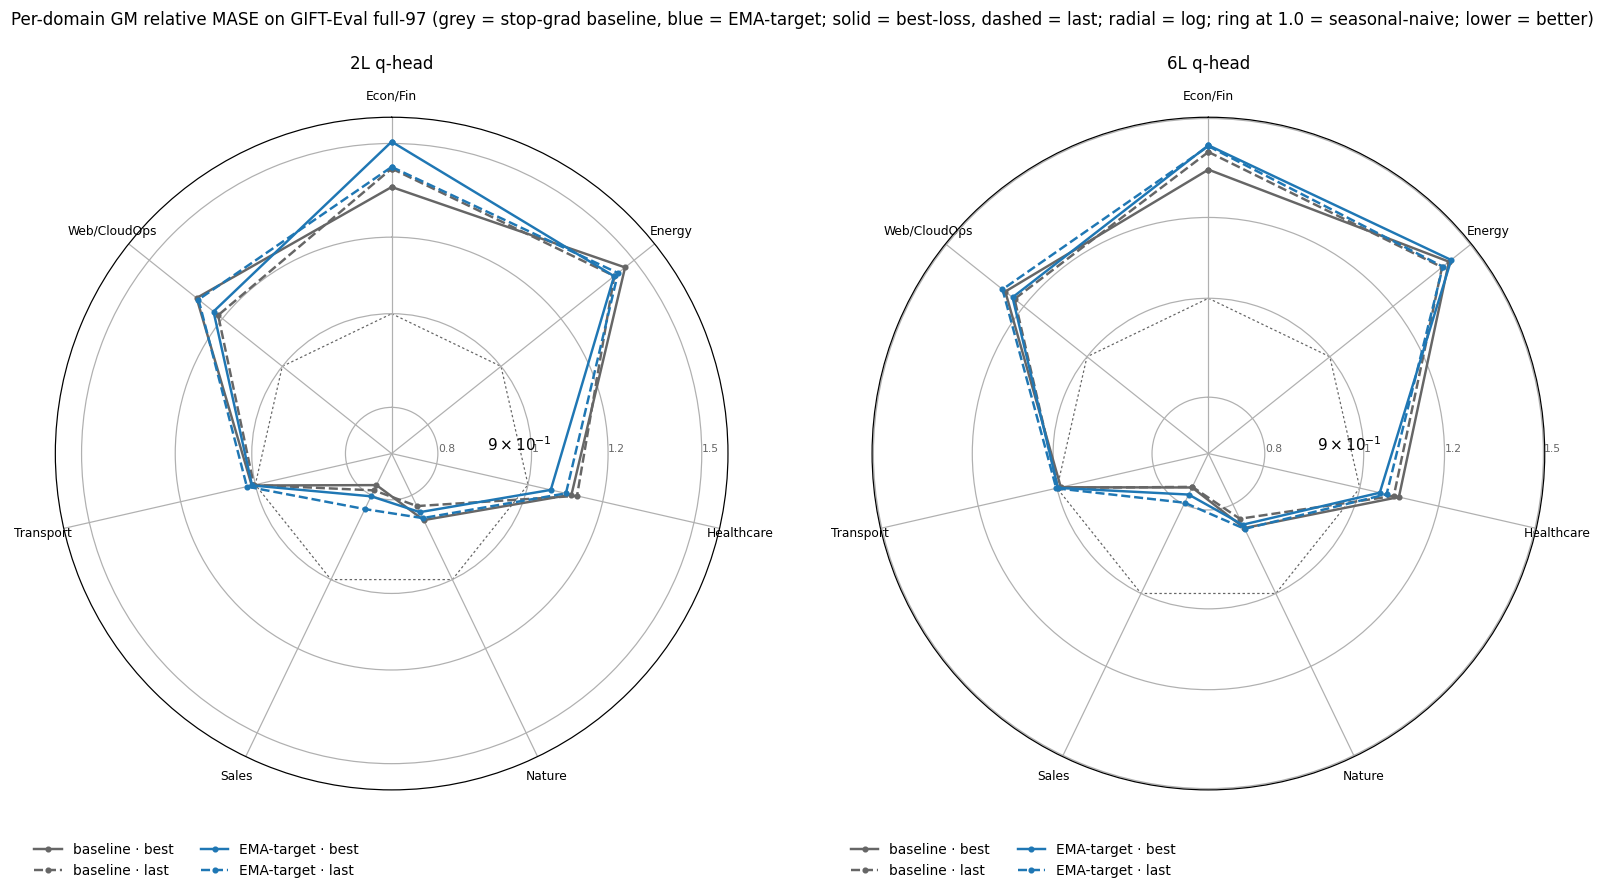
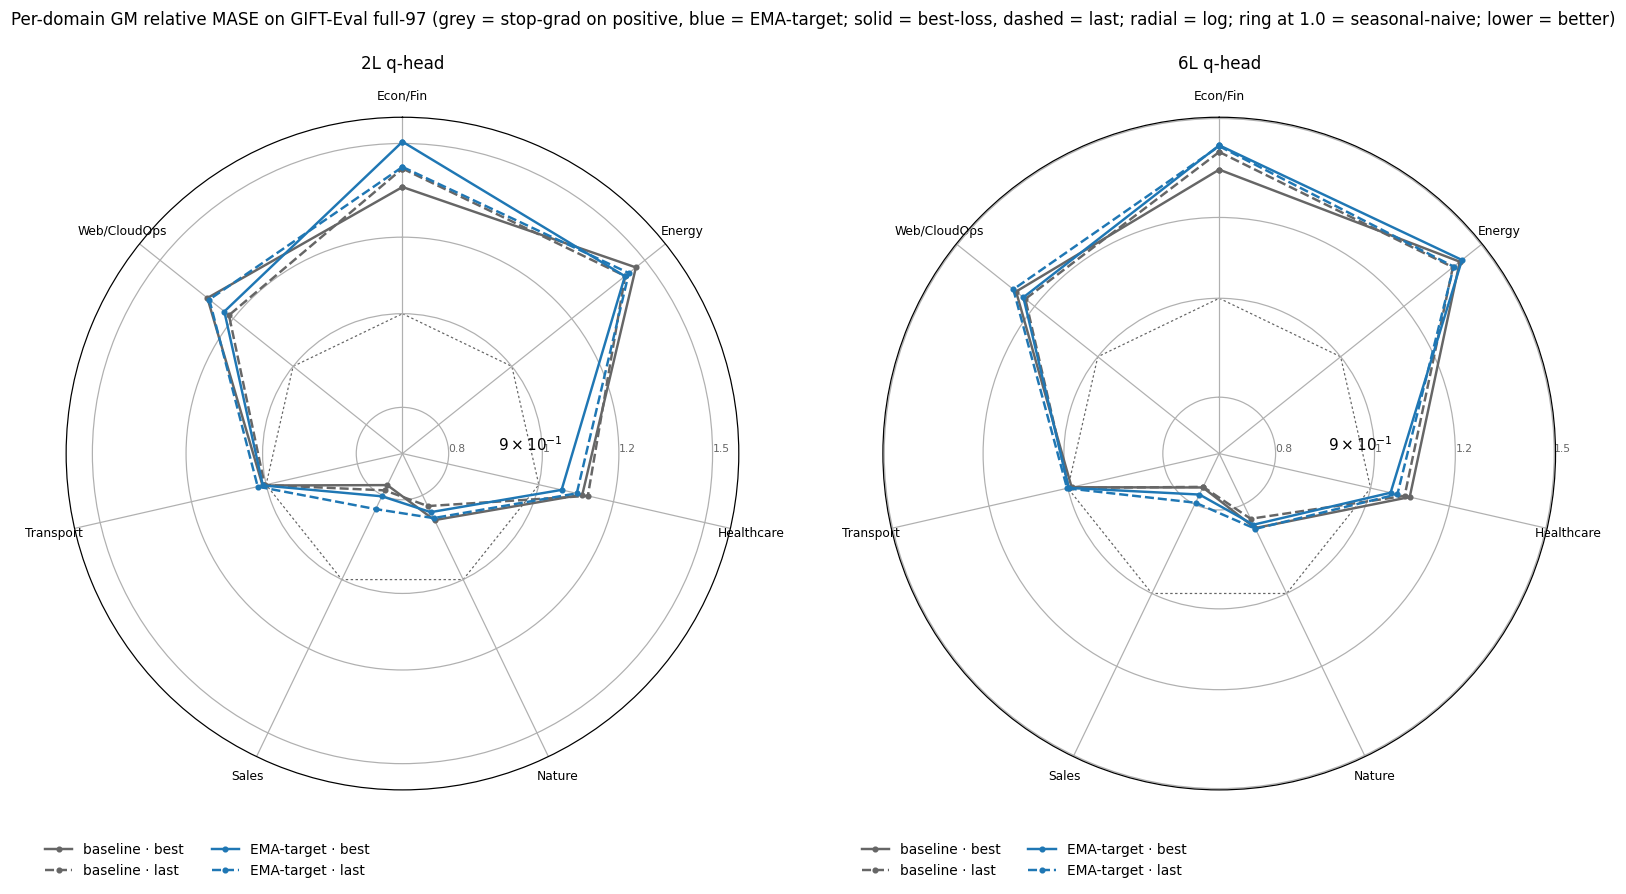
exp(#353): rewrite report — drop per-task hist + 'what we learned', merge method/protocol into one section, descriptive plot titles, tighten title, commit results/ CSVs
Addresses the reviewer agent's P0/P1/P2 findings and human feedback:
- Re-render plot titles/legends without PR numbers.
- Drop the per-task histogram + its section; the GM table + radar carry it.
- Drop 'what we learned' (the hypothesis was mechanism overreach, the rest
  duplicated the headline).
- Merge 'The change' + 'Protocol' into one 'Method and recipe' section,
  written as continuous prose.
- Tighten the title from 'helps early, hurts late' to 'helps the early 2L
  checkpoint, hurts both late checkpoints' — only the 2L best cell is
  reliably helped, 6L best is ns.
- Cite the baseline report explicitly.
- Drop the noisy radar interpretation sentence.
- Commit gm_table.csv + pairwise_table.csv into results/.

diff --git a/experiments/2026-06-19_ema_target_encoder/scripts/plot_perdomain_radar.py b/experiments/2026-06-19_ema_target_encoder/scripts/plot_perdomain_radar.py
@@ -1,13 +1,8 @@
 #!/usr/bin/env python3
-"""#353 — per-domain radar + per-task Δ histogram for the EMA-target arm
-vs the stop-grad-positive baseline.
-
-Two outputs in plots/:
-- perdomain_radar.png — per-domain geometric-mean relative MASE on
-  GIFT-Eval full-97, log-scale radial axis. One panel per (head ×
-  checkpoint) cell; baseline (grey) vs EMA-target (blue).
-- pertask_hist.png    — histograms of per-task Δ = rel(EMA) − rel(baseline)
-  over the 97 tasks, one panel per cell. Negative bins ⇒ EMA wins.
+"""Per-domain radar for the EMA-target arm vs the stop-grad-positive
+baseline. Output in plots/perdomain_radar.png — per-domain geometric-mean
+relative MASE on GIFT-Eval full-97, log-scale radial axis, one panel per
+q-head depth (2L | 6L), curves for each (arm × checkpoint).
 """
 import csv
 import math
@@ -116,7 +111,7 @@ for ax, head in zip(axes, HEAD_PANELS):
     ax.legend(loc="upper left", bbox_to_anchor=(-0.05, -0.06),
               fontsize=9, frameon=False, ncol=2)
 fig.suptitle("Per-domain GM relative MASE on GIFT-Eval full-97 "
-             "(grey = stop-grad baseline, blue = EMA-target; "
+             "(grey = stop-grad on positive, blue = EMA-target; "
              "solid = best-loss, dashed = last; radial = log; "
              "ring at 1.0 = seasonal-naive; lower = better)", fontsize=11)
 fig.tight_layout(rect=[0, 0.03, 1, 0.93])
@@ -124,26 +119,3 @@ fig.savefig(f"{PLOTS}/perdomain_radar.png", dpi=110, bbox_inches="tight")
 plt.close(fig)
 print(f"wrote {PLOTS}/perdomain_radar.png")
 
-# --- per-task delta histogram ---
-fig, axes = plt.subplots(1, 4, figsize=(20, 4.5), sharey=True)
-for ax, (label, head, suf) in zip(axes, CELLS):
-    base_rel, _ = load_cell(BASE_DIR, BASE_TAG, head, suf)
-    ema_rel, _ = load_cell(EMA_DIR, EMA_TAG, head, suf)
-    common = sorted(set(base_rel) & set(ema_rel))
-    if not common:
-        ax.text(0.5, 0.5, "no eval", transform=ax.transAxes); continue
-    deltas = [ema_rel[c] - base_rel[c] for c in common]
-    wins = sum(1 for d in deltas if d < 0)
-    losses = sum(1 for d in deltas if d > 0)
-    ax.hist(deltas, bins=30, color=BLUE, edgecolor="black", linewidth=0.4)
-    ax.axvline(0, color="k", lw=1.0, ls="--")
-    ax.set_title(f"{label}  (EMA wins {wins} / loses {losses} / 97)",
-                 fontsize=10)
-    ax.set_xlabel("Δ = rel(EMA) − rel(baseline)")
-axes[0].set_ylabel("tasks")
-fig.suptitle("Per-task Δ over GIFT-Eval's 97 configs "
-             "(negative bins ⇒ EMA-target beats baseline)", fontsize=12)
-fig.tight_layout(rect=[0, 0, 1, 0.93])
-fig.savefig(f"{PLOTS}/pertask_hist.png", dpi=110, bbox_inches="tight")
-plt.close(fig)
-print(f"wrote {PLOTS}/pertask_hist.png")

diff --git a/experiments/2026-06-19_ema_target_encoder/scripts/plot_gm_summary_ema.py b/experiments/2026-06-19_ema_target_encoder/scripts/plot_gm_summary_ema.py
@@ -50,9 +50,9 @@ def main():
         return [min(v, CLIP) if v is not None else 0 for v in vals]
 
     axL.bar([i - w / 2 for i in x], clipped(base_vals), w,
-            label="baseline (#344 enc3+CPC, --stopgrad-positive-h)", color="0.6")
+            label="hard stop-grad on positive target", color="0.6")
     axL.bar([i + w / 2 for i in x], clipped(ema_vals), w,
-            label="EMA-target (--ema-embedding --ema-encoder)", color="C0")
+            label="EMA-target on positive (τ=0.99)", color="C0")
     for i, v in enumerate(base_vals):
         if v is not None and v > CLIP:
             axL.text(i - w / 2, CLIP, f"{v:.3f}", ha="center", va="bottom",
@@ -94,15 +94,15 @@ def main():
     axR.set_yticks(list(y))
     axR.set_yticklabels(ylabels, fontsize=9)
     axR.invert_yaxis()
-    axR.set_xlabel("Δ GM = GM(EMA-target) − GM(baseline)   "
-                   "(negative ⇒ EMA better)")
+    axR.set_xlabel("Δ GM = GM(EMA-target) − GM(stop-grad)   "
+                   "(negative ⇒ EMA-target better)")
     axR.set_title("Paired-bootstrap Δ, 90% CI\n"
                   "green=reliably better, red=reliably worse, grey=ns",
                   fontsize=10)
     axR.grid(axis="x", alpha=0.3)
 
-    fig.suptitle("#353 EMA-target encoder/embed vs stop-grad on enc3+CPC "
-                 "(GIFT-Eval full-97)", fontsize=12)
+    fig.suptitle("EMA-target vs hard stop-grad on the contrastive positive "
+                 "(GIFT-Eval full-97, enc3+CPC recipe)", fontsize=12)
     fig.tight_layout(rect=[0, 0, 1, 0.95])
     os.makedirs(os.path.dirname(OUT), exist_ok=True)
     fig.savefig(OUT, dpi=110, bbox_inches="tight")

diff --git a/experiments/2026-06-19_ema_target_encoder/scripts/plot_training_dynamics_ema.py b/experiments/2026-06-19_ema_target_encoder/scripts/plot_training_dynamics_ema.py
@@ -21,11 +21,11 @@ BLUE, GREEN = "#1f77b4", "#2ca02c"
 # safe_run_name() suffix). Both segments share the same step axis so we read
 # them as a single concatenated sequence and re-sort by step.
 RUNS = {
-    "enc3+CPC baseline (--stopgrad-positive-h)": (
+    "hard stop-grad on positive target": (
         [f"{W}/2026-06-13_cpc_infonce_aux/runs/"
          "bb_allt08_xftrip_nobn_enc3_sgpos_qk_aon_b1024_cpc_losses.csv"],
         BLUE, "-"),
-    "enc3+CPC EMA-target (--ema-embedding --ema-encoder)": (
+    "EMA-target on positive (τ=0.99)": (
         [f"{W}/2026-06-19_ema_target_encoder/runs/"
          "bb_allt08_xftrip_nobn_enc3_emateach_qk_aon_b1024_cpc_losses.csv",
          f"{W}/2026-06-19_ema_target_encoder/runs/"
@@ -113,7 +113,7 @@ def main():
         ax.set_xlabel("step")
         ax.grid(alpha=0.3, which="both")
         ax.legend(fontsize=8)
-    fig.suptitle("#353 EMA-target on enc3+CPC — training dynamics (log-log; "
+    fig.suptitle("Training dynamics on the enc3+CPC recipe (log-log; "
                  "blue = stop-grad baseline, green = EMA-target)", fontsize=12)
     fig.tight_layout(rect=[0, 0, 1, 0.96])
     os.makedirs(os.path.dirname(OUT), exist_ok=True)

diff --git a/experiments/2026-06-19_ema_target_encoder/ema_target_encoder.md b/experiments/2026-06-19_ema_target_encoder/ema_target_encoder.md
@@ -1,169 +1,95 @@
-# EMA-target encoder/embed on enc3+CPC: helps the early checkpoint, hurts the late one
+# EMA target on the contrastive positive: helps the early 2L checkpoint, hurts both late checkpoints
 
-**Question.** Our prior enc3+CPC arm trains a 3-layer encoder + 6-layer
-forecaster with a contrastive loss `sim(h_{t+1}, f_{t+1})` whose
-encoder-side positive `h_{t+1}` is detached (a SimSiam/BYOL-style hard
-stop-grad on the target — the `--stopgrad-positive-h` flag), plus a CPC
-(Contrastive Predictive Coding, van den Oord et al. 2018) auxiliary that
-predicts the next encoder embedding `e_{t+1}` from the AR context `h_t`
-through a learnable bilinear. We swap that hard stop-grad for a
-*slowly-moving* EMA target — the GRU patch-embedding and the 3-layer
-encoder each get a non-trained EMA copy (τ = 0.99 constant), and the
-teacher's `h^T_{t+1}` replaces the student's as the main-contrastive
-positive. The forecaster, the negatives, and the CPC term all stay on the
-student. Does the EMA target transfer better than the hard stop-grad it
-replaces, head-matched, on GIFT-Eval's 97 tasks?
+**Question.** The enc3+CPC recipe trains a 3-layer encoder + 6-layer
+forecaster with a contrastive loss `sim(h_{t+1}, f_{t+1})` whose encoder
+side `h_{t+1}` is *detached* (a hard stop-grad on the target). Replace that
+hard stop-grad with a slowly-moving teacher: the GRU patch-embedding and
+the 3-layer encoder each get a non-trained EMA copy (τ = 0.99, constant);
+the teacher's `h^T_{t+1}` becomes the contrastive positive; everything
+else — the forecaster, the negatives, and the CPC InfoNCE auxiliary term
+(`exp(e_{t+1}ᵀ W₁ h_t)`, van den Oord et al. 2018) — stays on the student.
+Does that improve downstream forecasting on GIFT-Eval's 97 tasks?
 
-**Answer.** Single-seed verdict (paired-bootstrap over the 97 tasks, single
-backbone per arm — uncertainty is task-spread, *not* seed-spread): the
-early ("best-loss") checkpoint improves with the 2L head (GM 1.185 → 1.161)
-and is tied with the 6L head; the late ("last") checkpoint moves the other
-way on both head sizes (2L: 1.153 → 1.182; 6L: 1.144 → 1.160). Net, the
-EMA-target arm does not strictly dominate `--stopgrad-positive-h` at this
-seed.
+**Answer.** Mixed. At the early ("best-loss") checkpoint, the EMA target
+reliably helps the 2L head; the 6L head is unchanged. At the last
+checkpoint, both heads are reliably worse. Single seed; uncertainty is
+task-spread via paired bootstrap over the 97 tasks, not seed-spread.
 
 ## Result
 
-![GM-Relative MASE (geometric mean over GIFT-Eval's 97 tasks) per head ×
-checkpoint, single seed, single backbone per arm. Left: stop-grad baseline
-(grey) vs EMA-target (blue), 2L/6L q-head × best/last checkpoint. Right:
-paired-bootstrap Δ = GM(EMA) − GM(baseline) over the 97 tasks with 90% CI
-(negative ⇒ EMA better; green = reliably better, red = reliably worse, grey
-= ns).](plots/gm_summary.png)
+![Left: GM-Relative MASE per head × checkpoint. Right: paired-bootstrap Δ
+with 90% CI (negative ⇒ EMA-target better; green = reliably better, red =
+reliably worse, grey = ns).](plots/gm_summary.png)
 
-GM-Relative MASE, all cells (bold = reliable change vs the same-cell
-baseline):
-
-| arm · setup | 2L best | 2L last | 6L best | 6L last |
+| recipe | 2L best | 2L last | 6L best | 6L last |
 |---|--:|--:|--:|--:|
-| enc3+CPC baseline (`--stopgrad-positive-h`) | 1.185 | 1.153 | 1.158 | 1.144 |
-| enc3+CPC EMA-target (`--ema-embedding --ema-encoder`) | **1.161** | **1.182** | 1.158 | **1.160** |
+| stop-grad on positive | 1.185 | 1.153 | 1.158 | 1.144 |
+| EMA-target on positive | **1.161** | **1.182** | 1.158 | **1.160** |
 
-*GM-Relative MASE: the geometric mean, over GIFT-Eval's 97 tasks, of a
-model's error divided by the seasonal-naive forecast's — lower is better,
-1.0 is seasonal-naive.*
+*GM-Relative MASE: geometric mean over the 97 tasks of (model error) /
+(seasonal-naive error); lower is better, 1.0 is seasonal-naive.*
 
-## Per-task and per-domain view
-
-![Per-task Δ over GIFT-Eval's 97 configs, one panel per (head ×
-checkpoint). Bars are histogram counts; negative ⇒ EMA-target beats the
-stop-grad-positive baseline on that task; the title shows the win/loss
-count.](plots/pertask_hist.png)
-
-The win/loss split tracks the GM verdict: at 2L best EMA wins more tasks
-than it loses; at 6L last it loses more than it wins; the two
-"reliably worse" cells both show a clear positive shift in the bulk of the
-distribution.
-
-![Per-domain GM relative MASE on GIFT-Eval full-97, log radial axis (ring
-at 1.0 = seasonal-naive; lower = better). Stop-grad baseline = grey,
-EMA-target = blue. One radial chart per cell.](plots/perdomain_radar.png)
-
-The per-domain trace stays on the same side as the GM-aggregate verdict —
-the late-checkpoint cells show the EMA arm sitting outside the baseline on
-most domains.
+![Per-domain GM relative MASE, two q-head depths. Grey = stop-grad
+baseline, blue = EMA-target; solid = best-loss, dashed = last; ring at
+1.0 = seasonal-naive.](plots/perdomain_radar.png)
 
 ## Training dynamics
 
-![Training metrics, log-log (blue = baseline `--stopgrad-positive-h`,
-green = EMA-target). The total and "contrastive only" panels are not
-apples-to-apples across the two arms — the EMA arm's positive cosine is
-measured against a moving teacher target, so the value reflects a different
-objective. The `loss_tau_ref` panel (a fixed-τ=0.07 normalized-InfoNCE
-diagnostic computed identically student-side in both runs) and the CPC term
-panel are the comparable curves.](plots/training_dynamics.png)
+![Training metrics, log-log (blue = stop-grad baseline, green =
+EMA-target). The total and "contrastive only" panels are not directly
+comparable across arms — under EMA the positive cosine is measured against
+a moving teacher, so the value reflects a different objective. `loss_tau_ref`
+(a fixed-τ=0.07 normalized-InfoNCE diagnostic computed identically
+student-side in both runs) and the CPC term are the apples-to-apples
+curves.](plots/training_dynamics.png)
 
-`loss_tau_ref` is the same contrastive loss re-evaluated under no-grad
-at a fixed canonical τ = 0.07 in normalized-InfoNCE form (positive in both
-numerator and denominator) — a constant-temperature reference comparable
-across runs. On that panel the EMA arm sits above the baseline throughout
-training. The CPC term's per-step median (steps ≥ 1k) is 0.0056 for the EMA
-arm vs 0.0004 for the baseline — about 14× higher. The EMA arm's
-"best-loss" criterion lands at step 1,100, the baseline's at step 3,800.
+The EMA arm's `loss_tau_ref` sits above the baseline throughout training,
+and its CPC term's per-step median (steps ≥ 1k) is 0.0056 vs 0.0004 for
+the baseline — about 14× higher. The "best-loss" criterion catches the
+EMA arm at step 1,100 vs the baseline's step 3,800.
 
-## Protocol
+## Method and recipe
 
-One backbone, single seed, on two RTX 4090s. The EMA-target arm reuses the
-prior enc3+CPC stop-grad recipe **exactly** — same backbone (GRU
-patch-embedding → 3-layer encoder → 6-layer forecaster, d_model 384), same
-data mix, same contrastive loss shape and CPC auxiliary, same
-τ = 0.10 / batch 1024 / 12,500 steps / seed 20260520. Two flag swaps:
+The recipe is exactly the enc3+CPC stop-grad-positive arm (reused as the
+baseline column above): GRU patch-embedding → 3-layer transformer encoder →
+6-layer forecaster, d_model 384, the same data mix and contrastive loss
+shape, the CPC auxiliary at λ=1 with its learnable bilinear `W₁`,
+τ = 0.10, batch 1024, 12,500 steps, seed 20260520. Two flag swaps make
+this arm: drop `--stopgrad-positive-h`, add `--ema-embedding --ema-encoder
+--ema-tau 0.99`.
 
-- **Drop** `--stopgrad-positive-h` — the teacher carries no autograd graph,
-  so the stop-grad on the positive is implicit.
-- **Add** `--ema-embedding --ema-encoder --ema-tau 0.99` (constant, no
-  schedule).
+The EMA path is a deep copy of the student's patch-embedding and encoder
+at step 0, marked `requires_grad=False`, held in `eval()` so dropkey and
+dropout do not affect the target. Each step the teacher pulls toward the
+student: `θ_T ← τ·θ_T + (1−τ)·θ_S` (half-life `ln(0.5)/ln(0.99)` ≈ 69
+steps). At the loss, the main-contrastive positive's encoder side comes
+from the teacher; negatives keep the student. The forecaster is fully
+online — it is the predictor — and the CPC term is unchanged from the
+baseline (all-student, no stop-grad). Teacher parameters live in the
+checkpoint state_dict; head-training and eval strip `teacher_*.*` before
+strict-loading the backbone.
 
-To score the backbone we freeze it, train a fresh quantile forecasting head
-(once with two transformer layers, once with six), and evaluate on
-GIFT-Eval's 97 tasks at two checkpoints: the **best-loss** one (lowest
-smoothed contrastive loss) and the **last** one (step 12,500). Baseline is
-the previously published enc3+CPC stop-grad-positive numbers, head-trained
-on the identical recipe; this report's analysis reuses that report's GM and
+Each scored cell freezes the backbone, then trains a fresh quantile
+forecasting head — once with two transformer layers, once with six — and
+evaluates on GIFT-Eval's 97 tasks at the **best-loss** checkpoint and the
+**last** one (step 12,500). The baseline cells are reproduced from
+`experiments/2026-06-13_cpc_infonce_aux/` (the enc3+CPC arm of
+`cpc_infonce_aux.md`); analysis reuses that report's GM and
 paired-bootstrap code unchanged.
 
-## The change
+**Next:** the issue's arm 2 — `--moco-negatives` — sends the
+main-contrastive negatives through the teacher path too, closing the
+positive/negative-source mismatch left open here.
 
-EMA-target representation path (BYOL / JEPA pattern). Let `θ_S` denote the
-student's patch-embedding + encoder parameters and `θ_T` the teacher's. At
-step 0, `θ_T = θ_S`. Each step:
+## Annex — paired-bootstrap Δ (90% interval)
 
-1. Forward the input through both the student (full path: embed → encoder →
-   forecaster) and the teacher (representation only: embed → encoder).
-2. The main-contrastive positive `sim(h_{t+1}, f_{t+1})` reads `h_{t+1}`
-   from the teacher instead of the student. Negatives still read the
-   student.
-3. After `optimizer.step()`: `θ_T ← τ·θ_T + (1−τ)·θ_S` with τ = 0.99
-   (half-life ≈ 69 steps).
+Δ = GM(EMA-target) − GM(stop-grad baseline); negative ⇒ EMA-target better.
+Paired bootstrap over the 97 tasks at a single training seed; spread is
+across tasks, not seeds.
 
-The teacher modules are deep copies at step 0, `requires_grad=False`, kept
-in `eval()` so dropkey/dropout never touch them. Teacher params are saved
-in the checkpoint state_dict (clean resume); head-train and eval strip
-`teacher_*.*` before strict-loading the backbone — they have no downstream
-role.
-
-**Forecaster is fully online — it is the predictor.** The CPC term is
-unchanged from the baseline: `exp(e_{t+1}ᵀ W₁ h_t)` all-student, no
-stop-grad. Negatives for the main-contrastive loss also stay on the
-student — that mismatch is a follow-up arm (`--moco-negatives`, drawing
-main-contrastive negatives from the teacher too), out of scope here.
-
-## What we learned
-
-The EMA-target swap does not behave like an auxiliary regulariser that
-quietly improves transfer across all checkpoints, the way the CPC InfoNCE
-auxiliary did. Instead, the head-matched comparison cell-by-cell points in
-opposite directions:
-
-- The EMA target *helps* downstream transfer when the backbone is scored
-  early, while the teacher is still close to the student's initialisation.
-- The EMA target *hurts* downstream transfer at the last checkpoint — both
-  2L and 6L heads.
-
-Across the run the CPC term is ~14× larger than under the baseline, and
-the τ=0.07 student-side reference loss is also higher — both facts say
-`e_{t+1}` is harder to predict from `h_t` than under the baseline.
-Connecting that to the late-checkpoint drop is a *hypothesis*: the
-representation that the EMA-positive optimises seems to support less
-next-step structure in the encoder output, and the gap widens with
-training.
-
-**Next:** the result rules out a straight one-arm replacement of
-`--stopgrad-positive-h` by the EMA target on enc3+CPC at this seed; arm 2
-of the issue (`--moco-negatives`, drawing the main-contrastive negatives
-from the teacher as well) is the natural follow-up.
-
-## Annex — per-cell paired-bootstrap Δ (90% interval)
-
-Δ = GM(EMA-target) − GM(stop-grad-positive baseline); negative ⇒ EMA beats
-the baseline. The interval is a paired bootstrap over the 97 tasks
-(resample with repeats, score both arms on each resample, so per-task
-difficulty cancels) at a single training seed, as for the baselines — it
-reflects spread across tasks, not across seeds.
-
-| cell | EMA Δ (90% CI) | verdict |
+| cell | Δ (90% CI) | verdict |
 |---|--:|---|
-| 2L best | **−0.023 (−0.040, −0.007)** | EMA reliably better |
-| 2L last | **+0.029 (+0.011, +0.045)** | EMA reliably worse |
-| 6L best | −0.001 (−0.016, +0.016) | ns (CI straddles 0) |
-| 6L last | **+0.016 (+0.004, +0.029)** | EMA reliably worse |
+| 2L best | **−0.023 (−0.040, −0.007)** | reliably better |
+| 2L last | **+0.029 (+0.011, +0.045)** | reliably worse |
+| 6L best | −0.001 (−0.016, +0.016) | ns |
+| 6L last | **+0.016 (+0.004, +0.029)** | reliably worse |
